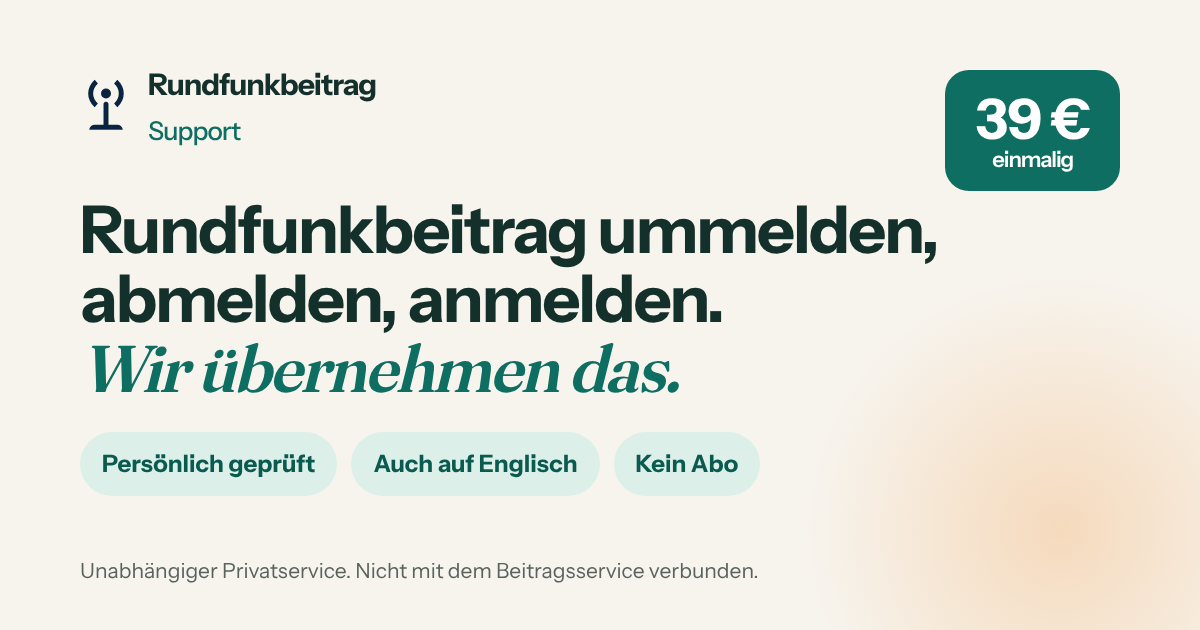
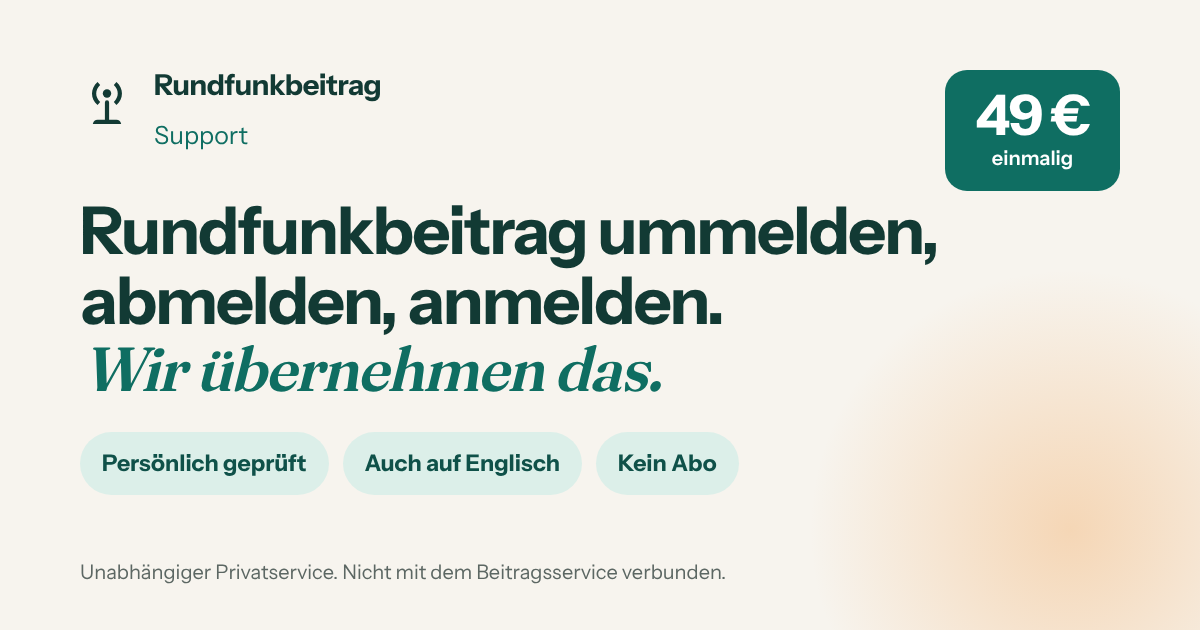
Link preview image and structured data show the 49 € price
The share preview still said 39 €. New image under a new file name so
WhatsApp and others fetch it again; the old og.png is replaced too.
Service JSON-LD offer price 39.00 -> 49.00.

Claude-Session: https://claude.ai/code/session_01PLDYDRpjaBBhZV3zbFxR3m

diff --git a/private/app/seo.php b/private/app/seo.php
@@ -72,12 +72,12 @@ function seo_service_html(string $slug,string $lang):string{$s=seo_service_data(
  .'<p class="rb-article-alt"><a href="'.h($alt).'" hreflang="'.($en?'de':'en').'">'.($en?'Auf Deutsch lesen':'Read in English').'</a></p>'.seo_disclaimer($lang).'</article>';}
 function seo_service_jsonld(string $slug,string $lang):array{$s=seo_service_data()[$slug];$d=$s[$lang];$base=config()['public_url'];$en=$lang==='en';$url=$base.seo_service_url($slug,$lang);
  $faq=[];foreach($d['faq'] as [$q,$a])$faq[]=['@type'=>'Question','name'=>$q,'acceptedAnswer'=>['@type'=>'Answer','text'=>$a]];
- return [['@context'=>'https://schema.org','@type'=>'Service','name'=>$d['title'],'description'=>$d['lead'],'url'=>$url,'areaServed'=>'DE','inLanguage'=>$lang,'provider'=>['@type'=>'Organization','name'=>'Rundfunkbeitrag Support','url'=>$base.'/'],'offers'=>['@type'=>'Offer','price'=>'39.00','priceCurrency'=>'EUR','url'=>$base.'/auftrag/'.strtolower($s['code'])]],
+ return [['@context'=>'https://schema.org','@type'=>'Service','name'=>$d['title'],'description'=>$d['lead'],'url'=>$url,'areaServed'=>'DE','inLanguage'=>$lang,'provider'=>['@type'=>'Organization','name'=>'Rundfunkbeitrag Support','url'=>$base.'/'],'offers'=>['@type'=>'Offer','price'=>'49.00','priceCurrency'=>'EUR','url'=>$base.'/auftrag/'.strtolower($s['code'])]],
   ['@context'=>'https://schema.org','@type'=>'BreadcrumbList','itemListElement'=>[['@type'=>'ListItem','position'=>1,'name'=>$en?'Home':'Startseite','item'=>$base.'/'],['@type'=>'ListItem','position'=>2,'name'=>$en?'Services':'Leistungen','item'=>$base.'/#leistungen'],['@type'=>'ListItem','position'=>3,'name'=>$d['title'],'item'=>$url]]],
   ['@context'=>'https://schema.org','@type'=>'FAQPage','mainEntity'=>$faq]];}
 // Link preview (Open Graph) and structured data tags for the page head.
 function seo_head(string $path,array $seo):string{$base=config()['public_url'];$lang=$seo['lang']??'de';
- $o='<meta property="og:type" content="website"><meta property="og:site_name" content="Rundfunkbeitrag Support"><meta property="og:title" content="'.h(preg_replace('/ · Rundfunkbeitrag Support$/','',$seo['title'])).'"><meta property="og:description" content="'.h($seo['description']).'"><meta property="og:url" content="'.h($base.$path).'"><meta property="og:image" content="'.h($base.'/brand/og.png').'"><meta property="og:image:width" content="1200"><meta property="og:image:height" content="630"><meta property="og:locale" content="'.($lang==='en'?'en_GB':'de_DE').'"><meta name="twitter:card" content="summary_large_image">';
+ $o='<meta property="og:type" content="website"><meta property="og:site_name" content="Rundfunkbeitrag Support"><meta property="og:title" content="'.h(preg_replace('/ · Rundfunkbeitrag Support$/','',$seo['title'])).'"><meta property="og:description" content="'.h($seo['description']).'"><meta property="og:url" content="'.h($base.$path).'"><meta property="og:image" content="'.h($base.'/brand/og-49.png').'"><meta property="og:image:width" content="1200"><meta property="og:image:height" content="630"><meta property="og:locale" content="'.($lang==='en'?'en_GB':'de_DE').'"><meta name="twitter:card" content="summary_large_image">';
  $ld=$seo['jsonld']??[];if($path==='/')$ld[]=['@context'=>'https://schema.org','@type'=>'Organization','name'=>'Rundfunkbeitrag Support','url'=>$base.'/','logo'=>$base.'/brand/antenna.svg','description'=>'Unabhängiger, kostenpflichtiger Privatservice für Rundfunkbeitrag-Anliegen. Nicht mit ARD, ZDF, Deutschlandradio oder dem Beitragsservice verbunden.'];
  if($a=seo_article($path))$ld[]=['@context'=>'https://schema.org','@type'=>'Article','headline'=>$a['title'],'description'=>$a['description'],'inLanguage'=>$a['lang'],'dateModified'=>'2026-10-24','author'=>['@type'=>'Organization','name'=>'Rundfunkbeitrag Support'],'publisher'=>['@type'=>'Organization','name'=>'Rundfunkbeitrag Support'],'mainEntityOfPage'=>$base.$path];
  foreach($ld as $x)$o.='<script type="application/ld+json">'.json_encode($x,JSON_UNESCAPED_UNICODE|JSON_UNESCAPED_SLASHES|JSON_HEX_TAG).'</script>';return $o;}
